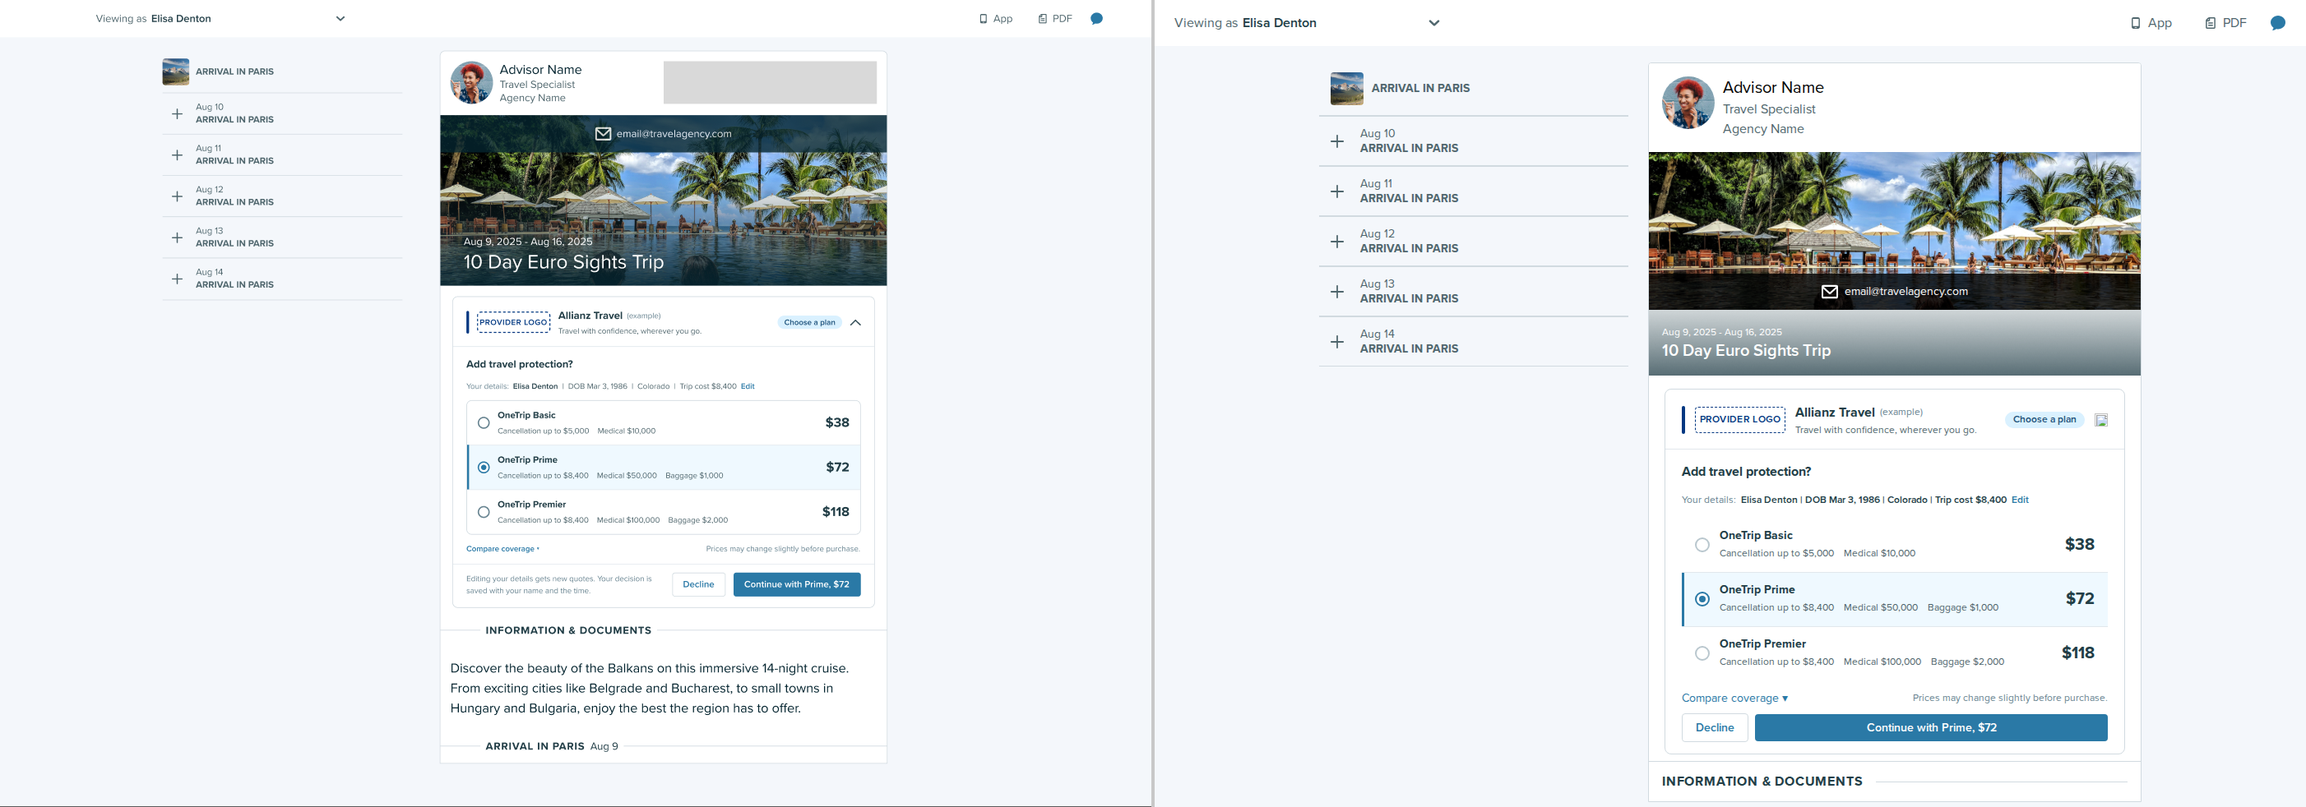
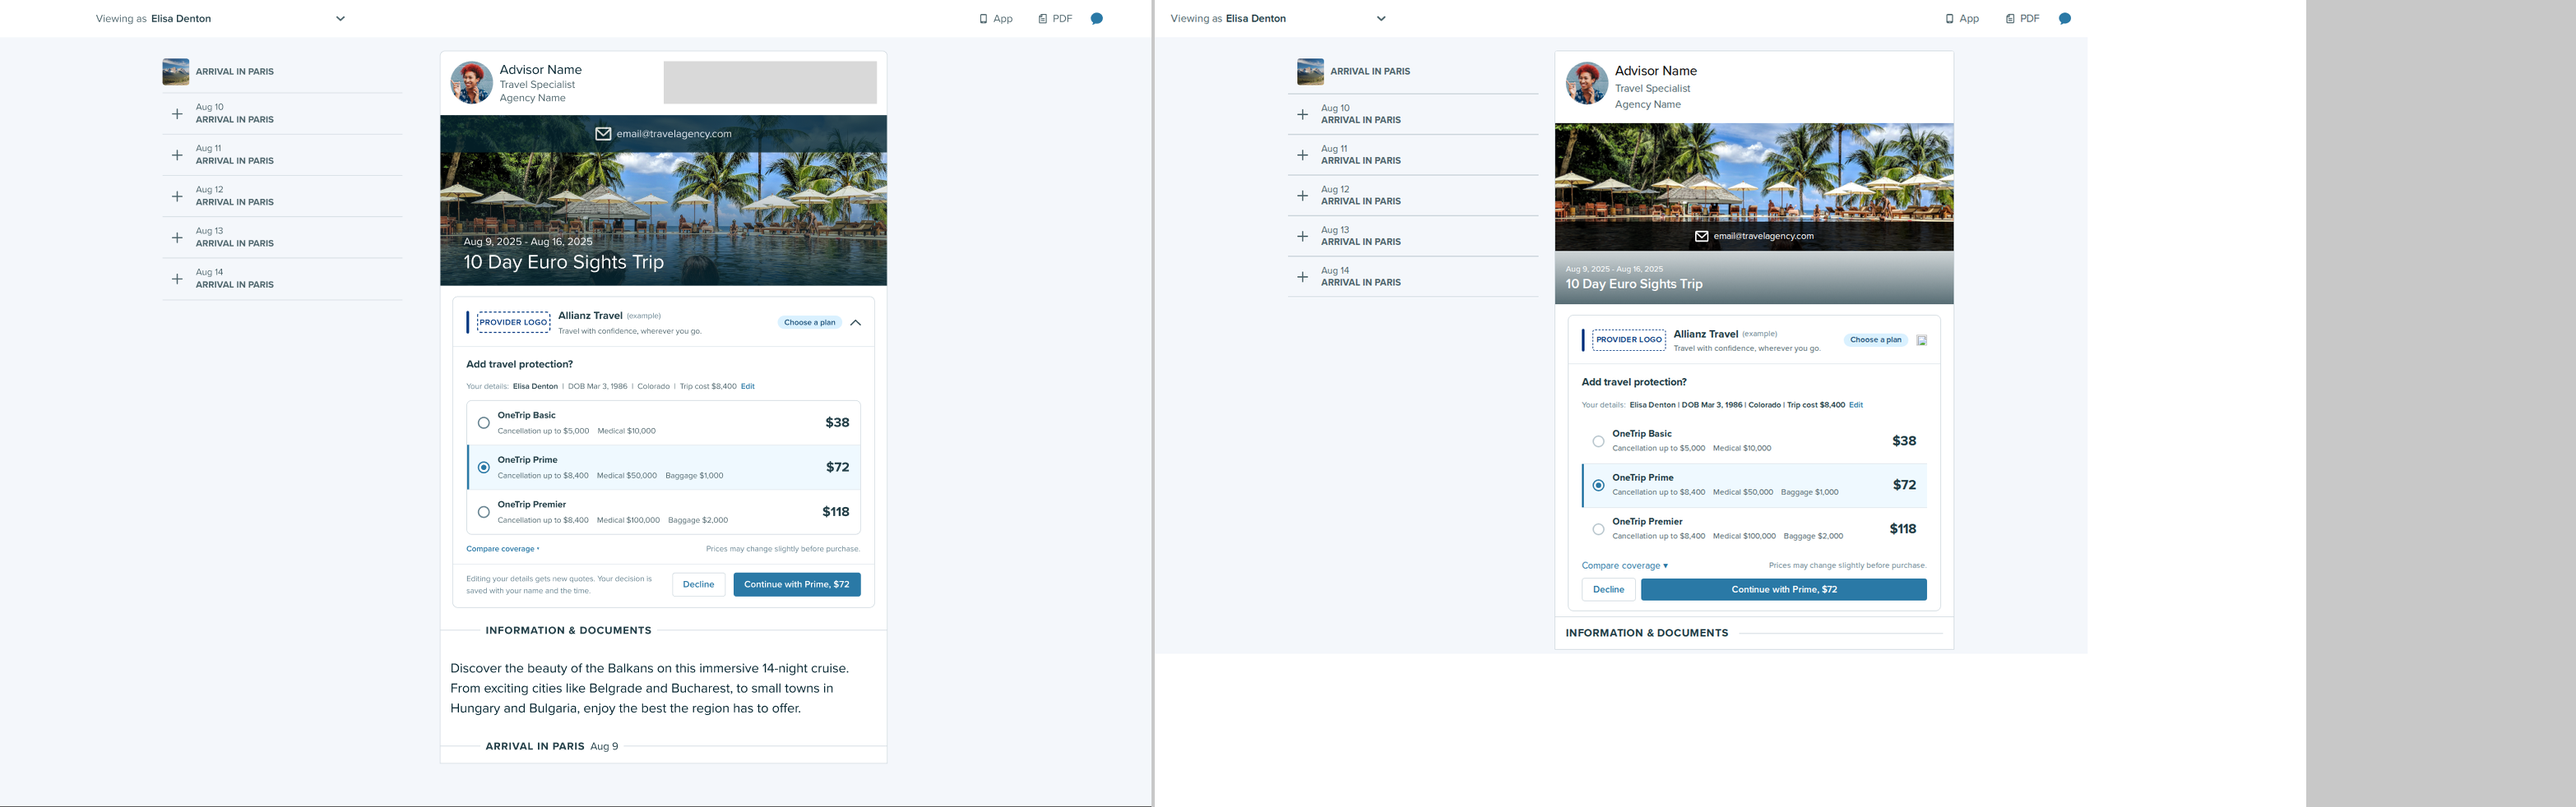
Fix frame scale discrepancy: render at true Figma frame dimensions (1728px)
- Updated ScreenHarness to use true Figma frame dimensions (1728px for advisor screens)
- Updated screenshot-compare script to capture at frame dimensions then downscale to export dimensions (1400px)
- Fixes scale issue where sidebars (400px + 300px) were taking ~30% more width than intended
- Verified 78843, 78641, 79155: Action column now visible, table doesn't wrap, proportions match Figma

diff --git a/scripts/screenshot-compare.ts b/scripts/screenshot-compare.ts
@@ -7,22 +7,22 @@ import { existsSync, mkdirSync } from 'fs'
 import { join } from 'path'
 
 const SCREENS = [
-  { id: '34227-79155', width: 1400, height: 982 },
-  { id: '34227-78641', width: 1400, height: 971 },
-  { id: '34227-78843', width: 1400, height: 882 },
-  { id: '34227-78999', width: 561, height: 1062 },
-  { id: '34237-3169', width: 561, height: 972 },
-  { id: '34227-79415', width: 1400, height: 820 },
-  { id: '34227-79234', width: 1400, height: 651 },
-  { id: '34227-79452', width: 490, height: 309 },
-  { id: '34227-79473', width: 490, height: 756 },
-  { id: '34233-2724', width: 1400, height: 1054 },
-  { id: '34160-3830', width: 674, height: 1156 },
-  { id: '34237-2862', width: 561, height: 1062 },
-  { id: '34237-3007', width: 544, height: 1200 },
-  { id: '34227-79314', width: 1400, height: 1145 },
-  { id: '34245-3118', width: 1400, height: 872 },
-  { id: '34227-79275', width: 1400, height: 820 },
+  { id: '34227-79155', frameWidth: 1728, frameHeight: 1211, exportWidth: 1400, exportHeight: 982 },
+  { id: '34227-78641', frameWidth: 1728, frameHeight: 1198, exportWidth: 1400, exportHeight: 971 },
+  { id: '34227-78843', frameWidth: 1728, frameHeight: 1088, exportWidth: 1400, exportHeight: 882 },
+  { id: '34227-78999', frameWidth: 561, frameHeight: 1062, exportWidth: 561, exportHeight: 1062 },
+  { id: '34237-3169', frameWidth: 561, frameHeight: 972, exportWidth: 561, exportHeight: 972 },
+  { id: '34227-79415', frameWidth: 1400, frameHeight: 820, exportWidth: 1400, exportHeight: 820 },
+  { id: '34227-79234', frameWidth: 1400, frameHeight: 651, exportWidth: 1400, exportHeight: 651 },
+  { id: '34227-79452', frameWidth: 490, frameHeight: 309, exportWidth: 490, exportHeight: 309 },
+  { id: '34227-79473', frameWidth: 490, frameHeight: 756, exportWidth: 490, exportHeight: 756 },
+  { id: '34233-2724', frameWidth: 1400, frameHeight: 1054, exportWidth: 1400, exportHeight: 1054 },
+  { id: '34160-3830', frameWidth: 674, frameHeight: 1156, exportWidth: 674, exportHeight: 1156 },
+  { id: '34237-2862', frameWidth: 561, frameHeight: 1062, exportWidth: 561, exportHeight: 1062 },
+  { id: '34237-3007', frameWidth: 544, frameHeight: 1200, exportWidth: 544, exportHeight: 1200 },
+  { id: '34227-79314', frameWidth: 1400, frameHeight: 1145, exportWidth: 1400, exportHeight: 1145 },
+  { id: '34245-3118', frameWidth: 1400, frameHeight: 872, exportWidth: 1400, exportHeight: 872 },
+  { id: '34227-79275', frameWidth: 1400, frameHeight: 820, exportWidth: 1400, exportHeight: 820 },
 ]
 
 const BASE_URL = 'http://localhost:5173'
@@ -44,11 +44,11 @@ async function main() {
   let failCount = 0
 
   for (const screen of SCREENS) {
-    console.log(`\nProcessing ${screen.id} (${screen.width}x${screen.height})...`)
+    console.log(`\nProcessing ${screen.id} (frame: ${screen.frameWidth}x${screen.frameHeight}, export: ${screen.exportWidth}x${screen.exportHeight})...`)
     
     try {
-      // Set viewport to exact Figma dimensions
-      await page.setViewportSize({ width: screen.width, height: screen.height })
+      // Set viewport to true Figma frame dimensions
+      await page.setViewportSize({ width: screen.frameWidth, height: screen.frameHeight })
       
       // Navigate to screen harness
       const url = `${BASE_URL}/link-insurance/screen/${screen.id}`
@@ -58,14 +58,14 @@ async function main() {
       // Wait a bit for fonts/styles to settle
       await page.waitForTimeout(1000)
       
-      // Screenshot the build
+      // Screenshot the build at true frame dimensions
       const buildScreenshotPath = join(TEMP_DIR, `${screen.id}-build.png`)
       await page.screenshot({ 
         path: buildScreenshotPath,
         fullPage: false,
         animations: 'disabled'
       })
-      console.log(`  ✓ Build screenshot saved`)
+      console.log(`  ✓ Build screenshot captured at ${screen.frameWidth}x${screen.frameHeight}`)
       
       // Load Figma reference screenshot
       const figmaScreenshotPath = join(UPLOAD_DIR, screen.id, 'screenshot.png')
@@ -77,16 +77,25 @@ async function main() {
       
       // Load both images
       const figmaImg = sharp(figmaScreenshotPath)
-      const buildImg = sharp(buildScreenshotPath)
+      let buildImg = sharp(buildScreenshotPath)
       
       // Get metadata to verify dimensions
       const figmaMeta = await figmaImg.metadata()
       const buildMeta = await buildImg.metadata()
       
-      console.log(`  Figma: ${figmaMeta.width}x${figmaMeta.height}, Build: ${buildMeta.width}x${buildMeta.height}`)
+      console.log(`  Figma: ${figmaMeta.width}x${figmaMeta.height}, Build (raw): ${buildMeta.width}x${buildMeta.height}`)
       
-      // Normalize heights (use max height)
-      const maxHeight = Math.max(figmaMeta.height || 0, buildMeta.height || 0)
+      // Resize build to match export dimensions (downscale from frame dimensions)
+      if (buildMeta.width !== screen.exportWidth || buildMeta.height !== screen.exportHeight) {
+        console.log(`  Resizing build from ${buildMeta.width}x${buildMeta.height} to ${screen.exportWidth}x${screen.exportHeight}`)
+        buildImg = buildImg.resize(screen.exportWidth, screen.exportHeight, {
+          fit: 'fill',
+          kernel: 'lanczos3'
+        })
+      }
+      
+      // Normalize heights (use max height between Figma and resized build)
+      const maxHeight = Math.max(figmaMeta.height || 0, screen.exportHeight)
       
       // Resize images to same height if needed, padding with white
       const figmaResized = await figmaImg
@@ -97,7 +106,7 @@ async function main() {
         .toBuffer()
       
       const buildResized = await buildImg
-        .resize(buildMeta.width, maxHeight, {
+        .resize(screen.exportWidth, maxHeight, {
           fit: 'contain',
           background: { r: 255, g: 255, b: 255, alpha: 1 }
         })

diff --git a/src/prototypes/link-insurance/ScreenHarness.tsx b/src/prototypes/link-insurance/ScreenHarness.tsx
@@ -17,11 +17,11 @@ import { Node34227_79314 } from './screens/Node34227_79314'
 import { Node34245_3118 } from './screens/Node34245_3118'
 import { Node34227_79275 } from './screens/Node34227_79275'
 
-// Map node IDs to components and dimensions (from actual Figma screenshot.png exports)
+// Map node IDs to components and true Figma frame dimensions (not export dimensions)
 const SCREENS: Record<string, { Component: React.FC; width: number; height: number }> = {
-  '34227-79155': { Component: Node34227_79155, width: 1400, height: 982 },
-  '34227-78641': { Component: Node34227_78641, width: 1400, height: 971 },
-  '34227-78843': { Component: Node34227_78843, width: 1400, height: 882 },
+  '34227-79155': { Component: Node34227_79155, width: 1728, height: 1211 },
+  '34227-78641': { Component: Node34227_78641, width: 1728, height: 1198 },
+  '34227-78843': { Component: Node34227_78843, width: 1728, height: 1088 },
   '34227-78999': { Component: Node34227_78999, width: 561, height: 1062 },
   '34237-3169': { Component: Node34237_3169, width: 561, height: 972 },
   '34227-79415': { Component: Node34227_79415, width: 1400, height: 820 },
